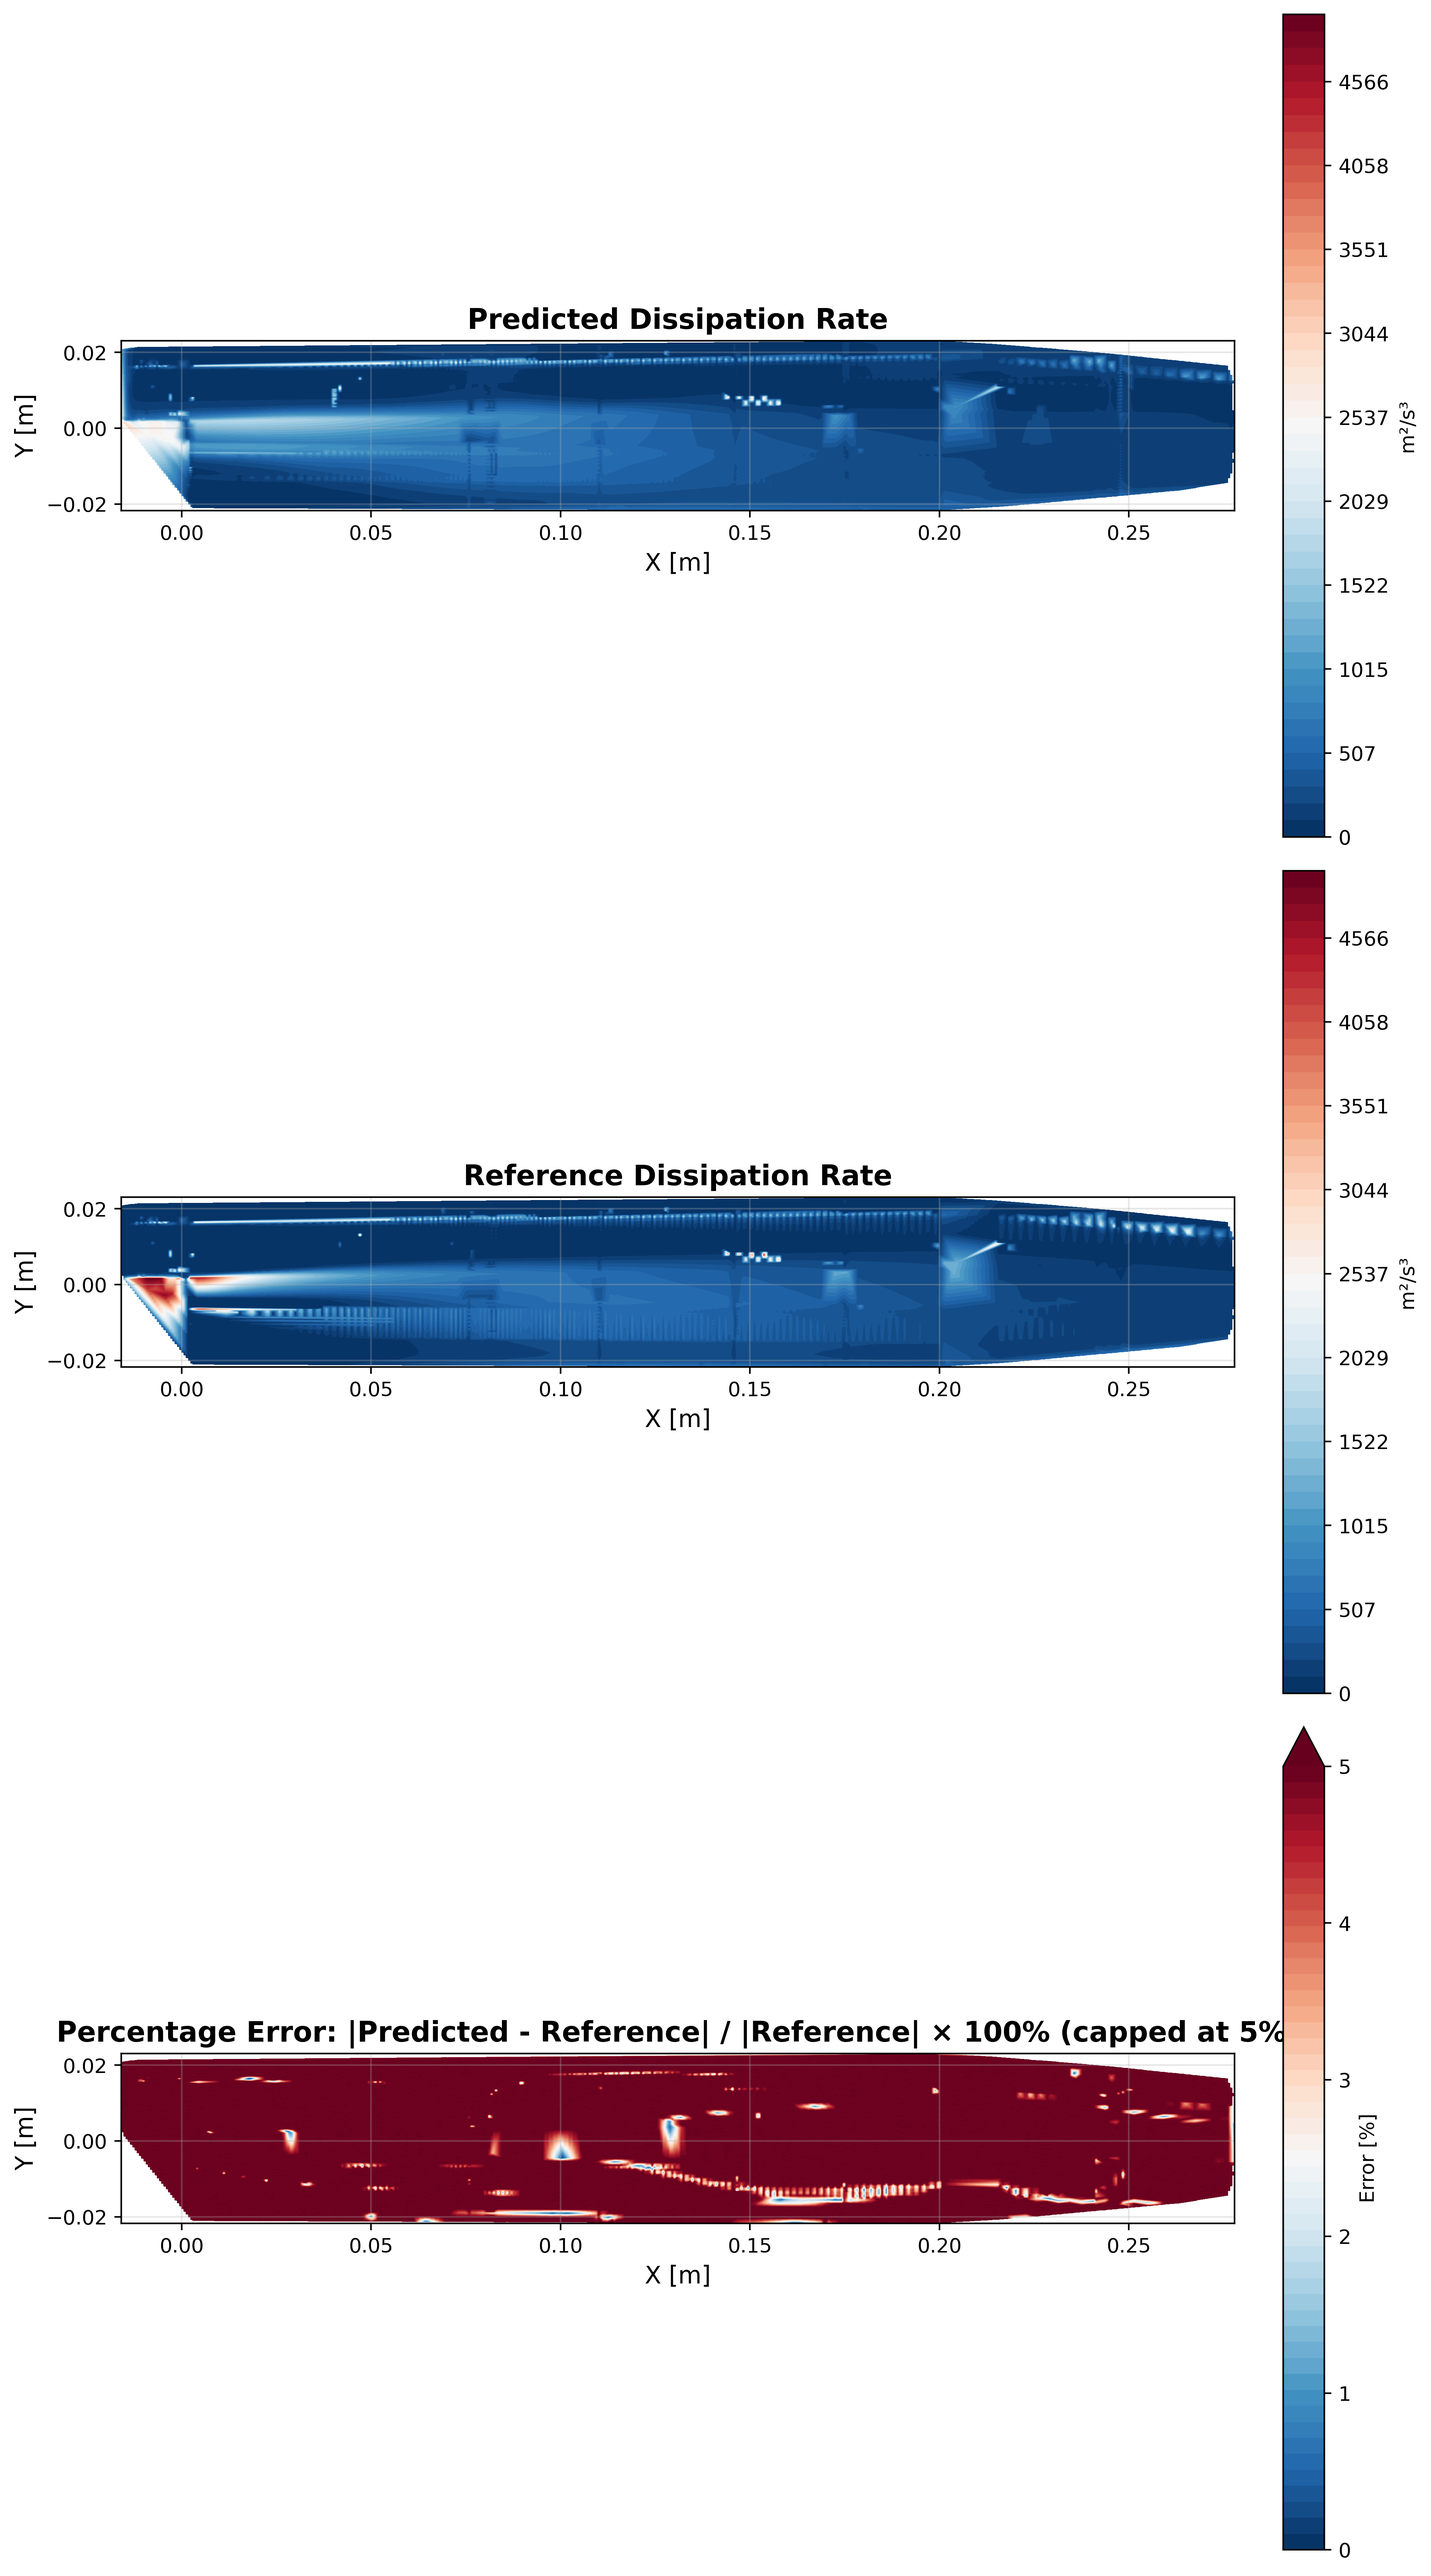
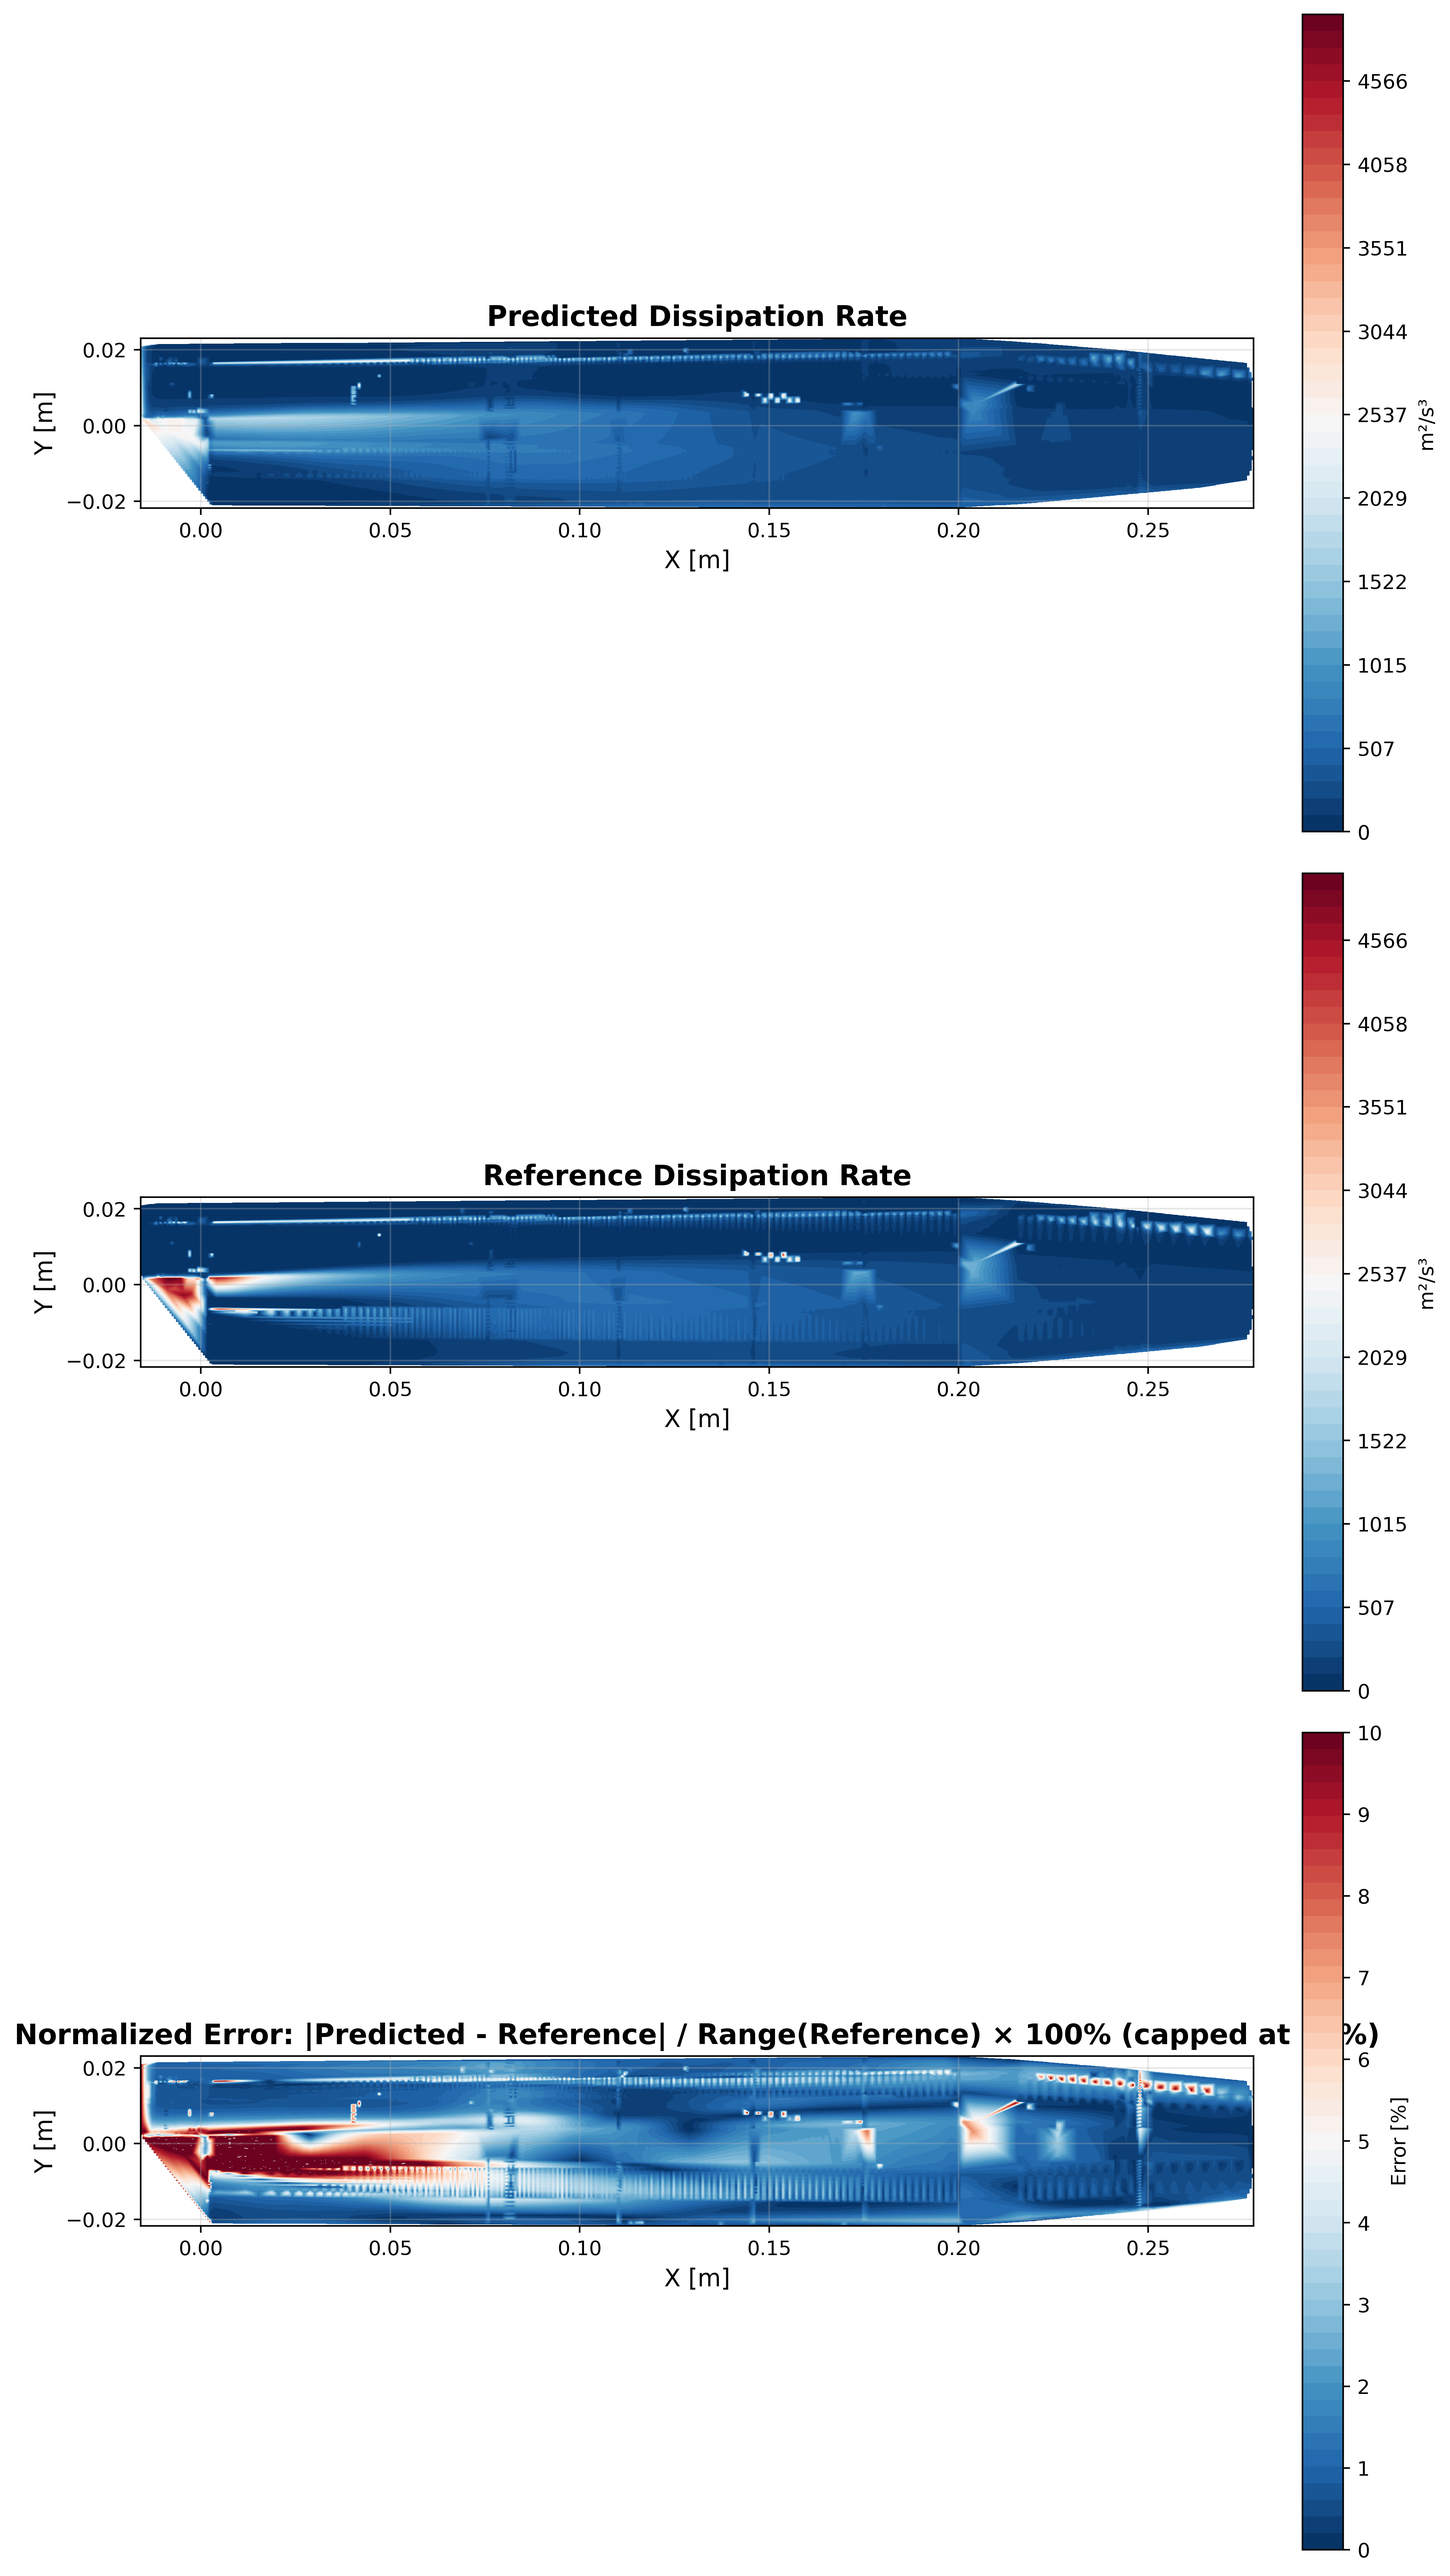
update error plot

diff --git a/visualize.py b/visualize.py
@@ -211,18 +211,45 @@ def compare_fields(predicted_fields, reference_fields, cell_centers, output_dir)
         Zi_pred = griddata((x, y), pred_mag, (Xi, Yi), method='linear', fill_value=np.nan)
         Zi_ref = griddata((x, y), ref_mag, (Xi, Yi), method='linear', fill_value=np.nan)
         
-        # Calculate percentage error: (|pred - ref| / |ref|) * 100
-        # Avoid division by zero
-        ref_magnitude = np.abs(ref_mag)
-        threshold = np.max(ref_magnitude) * 1e-6  # Small threshold to avoid division by zero
-        error_percent = np.where(
-            ref_magnitude > threshold,
-            (np.abs(pred_mag - ref_mag) / ref_magnitude) * 100,
-            np.zeros_like(ref_mag)
-        )
-        # Clip error to maximum 5% for better visualization
-        error_percent = np.clip(error_percent, 0, 5.0)
-        Zi_err = griddata((x, y), error_percent, (Xi, Yi), method='linear', fill_value=np.nan)
+        # Calculate normalized error: |pred - ref| / range(ref) * 100
+        # This normalizes by the range (max - min) of the reference field
+        # This provides a consistent scale and avoids high percentage errors for small individual values
+        ref_max = np.nanmax(ref_mag)
+        ref_min = np.nanmin(ref_mag)
+        ref_range = ref_max - ref_min
+        
+        # If range is very small, use max absolute value as fallback
+        if ref_range < 1e-10:
+            ref_scale = max(np.abs(ref_max), np.abs(ref_min))
+        else:
+            ref_scale = ref_range
+        
+        # Add small epsilon to avoid division by zero
+        eps = max(ref_scale * 1e-6, 1e-10)
+        
+        if ref_scale > eps:
+            # Normalize by the scale of the reference field
+            error_normalized = (np.abs(pred_mag - ref_mag) / (ref_scale + eps)) * 100
+        else:
+            # Fallback: use absolute error if reference is essentially zero everywhere
+            error_normalized = np.abs(pred_mag - ref_mag) * 100
+        
+        # Clip error to maximum 10% for better visualization
+        error_normalized = np.clip(error_normalized, 0, 10.0)
+        Zi_err = griddata((x, y), error_normalized, (Xi, Yi), method='linear', fill_value=np.nan)
+        
+        # Print diagnostic information
+        abs_error = np.abs(pred_mag - ref_mag)
+        mean_abs_error = np.mean(abs_error)
+        max_abs_error = np.max(abs_error)
+        mean_error_pct = np.mean(error_normalized)
+        max_error_pct = np.max(error_normalized)
+        print(f"  {field_name} Error Stats:")
+        print(f"    Mean absolute error: {mean_abs_error:.6e}")
+        print(f"    Max absolute error: {max_abs_error:.6e}")
+        print(f"    Reference scale (range): {ref_scale:.6e} (min: {ref_min:.6e}, max: {ref_max:.6e})")
+        print(f"    Mean normalized error: {mean_error_pct:.2f}%")
+        print(f"    Max normalized error: {max_error_pct:.2f}%")
         
         # Domain masking with Delaunay triangulation (key fix from sample project)
         try:
@@ -268,20 +295,20 @@ def compare_fields(predicted_fields, reference_fields, cell_centers, output_dir)
         cbar2 = plt.colorbar(im2, ax=axes[1], label=config['unit'], fraction=0.046, pad=0.04)
         cbar2.ax.tick_params(labelsize=10)
         
-        # Error - bottom (percentage error, capped at 5%)
-        error_levels = np.linspace(0, 5.0, 50)  # Fixed range 0-5%
-        im3 = axes[2].contourf(Xi, Yi, Zi_err, levels=error_levels, vmin=0, vmax=5.0, 
-                               cmap='RdBu_r', extend='max')  # Show arrow for values > 5%
-        axes[2].set_title(f'Percentage Error: |Predicted - Reference| / |Reference| × 100% (capped at 5%)', 
+        # Error - bottom (normalized error, capped at 10%)
+        error_levels = np.linspace(0, 10.0, 50)  # Fixed range 0-10%
+        im3 = axes[2].contourf(Xi, Yi, Zi_err, levels=error_levels, vmin=0, vmax=10.0, 
+                               cmap='RdBu_r', extend='neither')  # No extend arrows
+        axes[2].set_title(f'Normalized Error: |Predicted - Reference| / Range(Reference) × 100% (capped at 10%)', 
                          fontsize=14, fontweight='bold')
         axes[2].set_xlabel('X [m]', fontsize=12)
         axes[2].set_ylabel('Y [m]', fontsize=12)
         axes[2].set_aspect('equal')
         axes[2].grid(True, alpha=0.3)
-        # Colorbar with percentage label, fixed range 0-5%
+        # Colorbar with percentage label, fixed range 0-10%
         cbar3 = plt.colorbar(im3, ax=axes[2], label='Error [%]', fraction=0.046, pad=0.04)
         cbar3.ax.tick_params(labelsize=10)
-        cbar3.set_ticks(np.linspace(0, 5, 6))  # Show ticks at 0, 1, 2, 3, 4, 5%
+        cbar3.set_ticks(np.linspace(0, 10, 11))  # Show ticks at 0, 1, 2, ..., 10%
         
         plt.tight_layout()
         output_path = output_dir / f'{field_name}_comparison.png'
